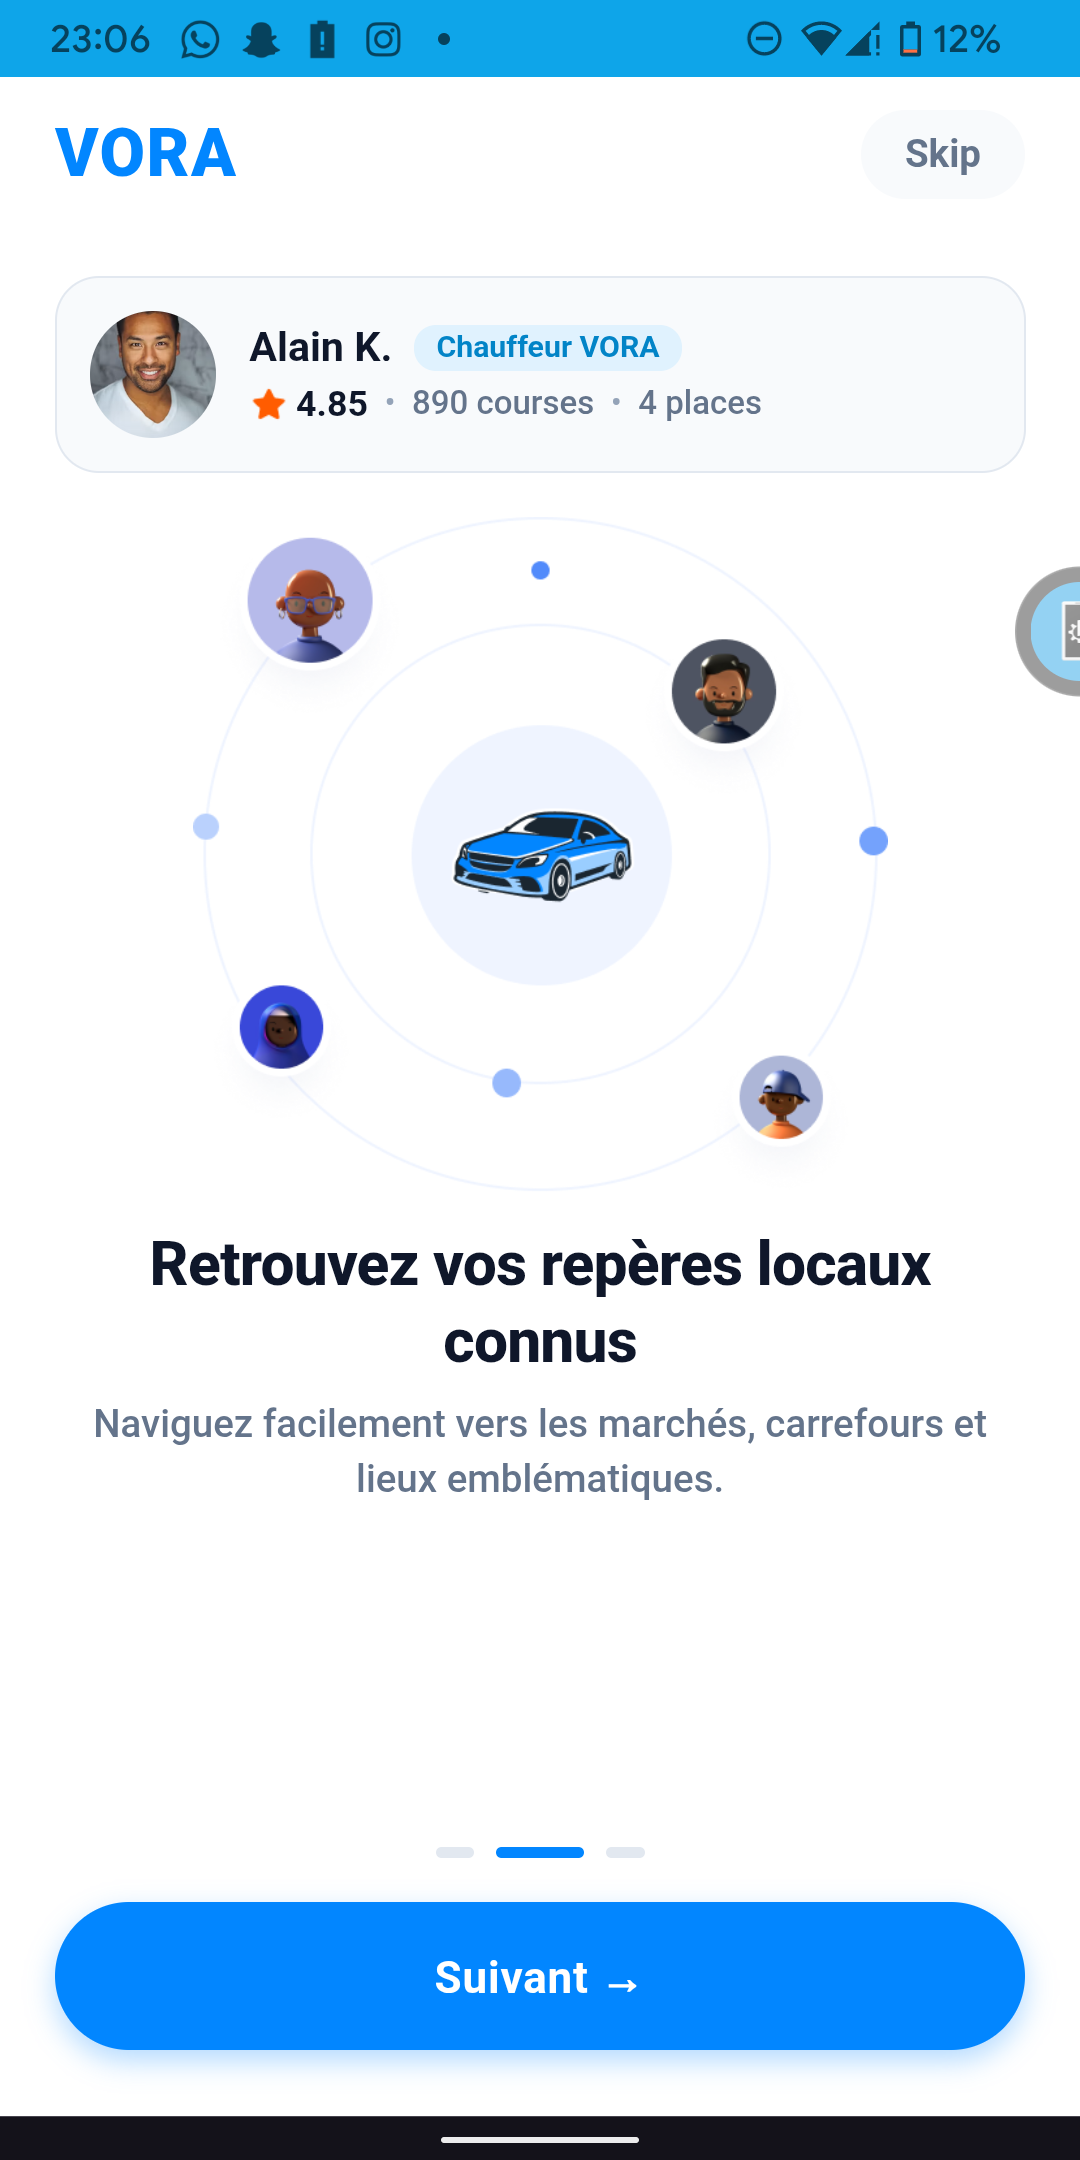
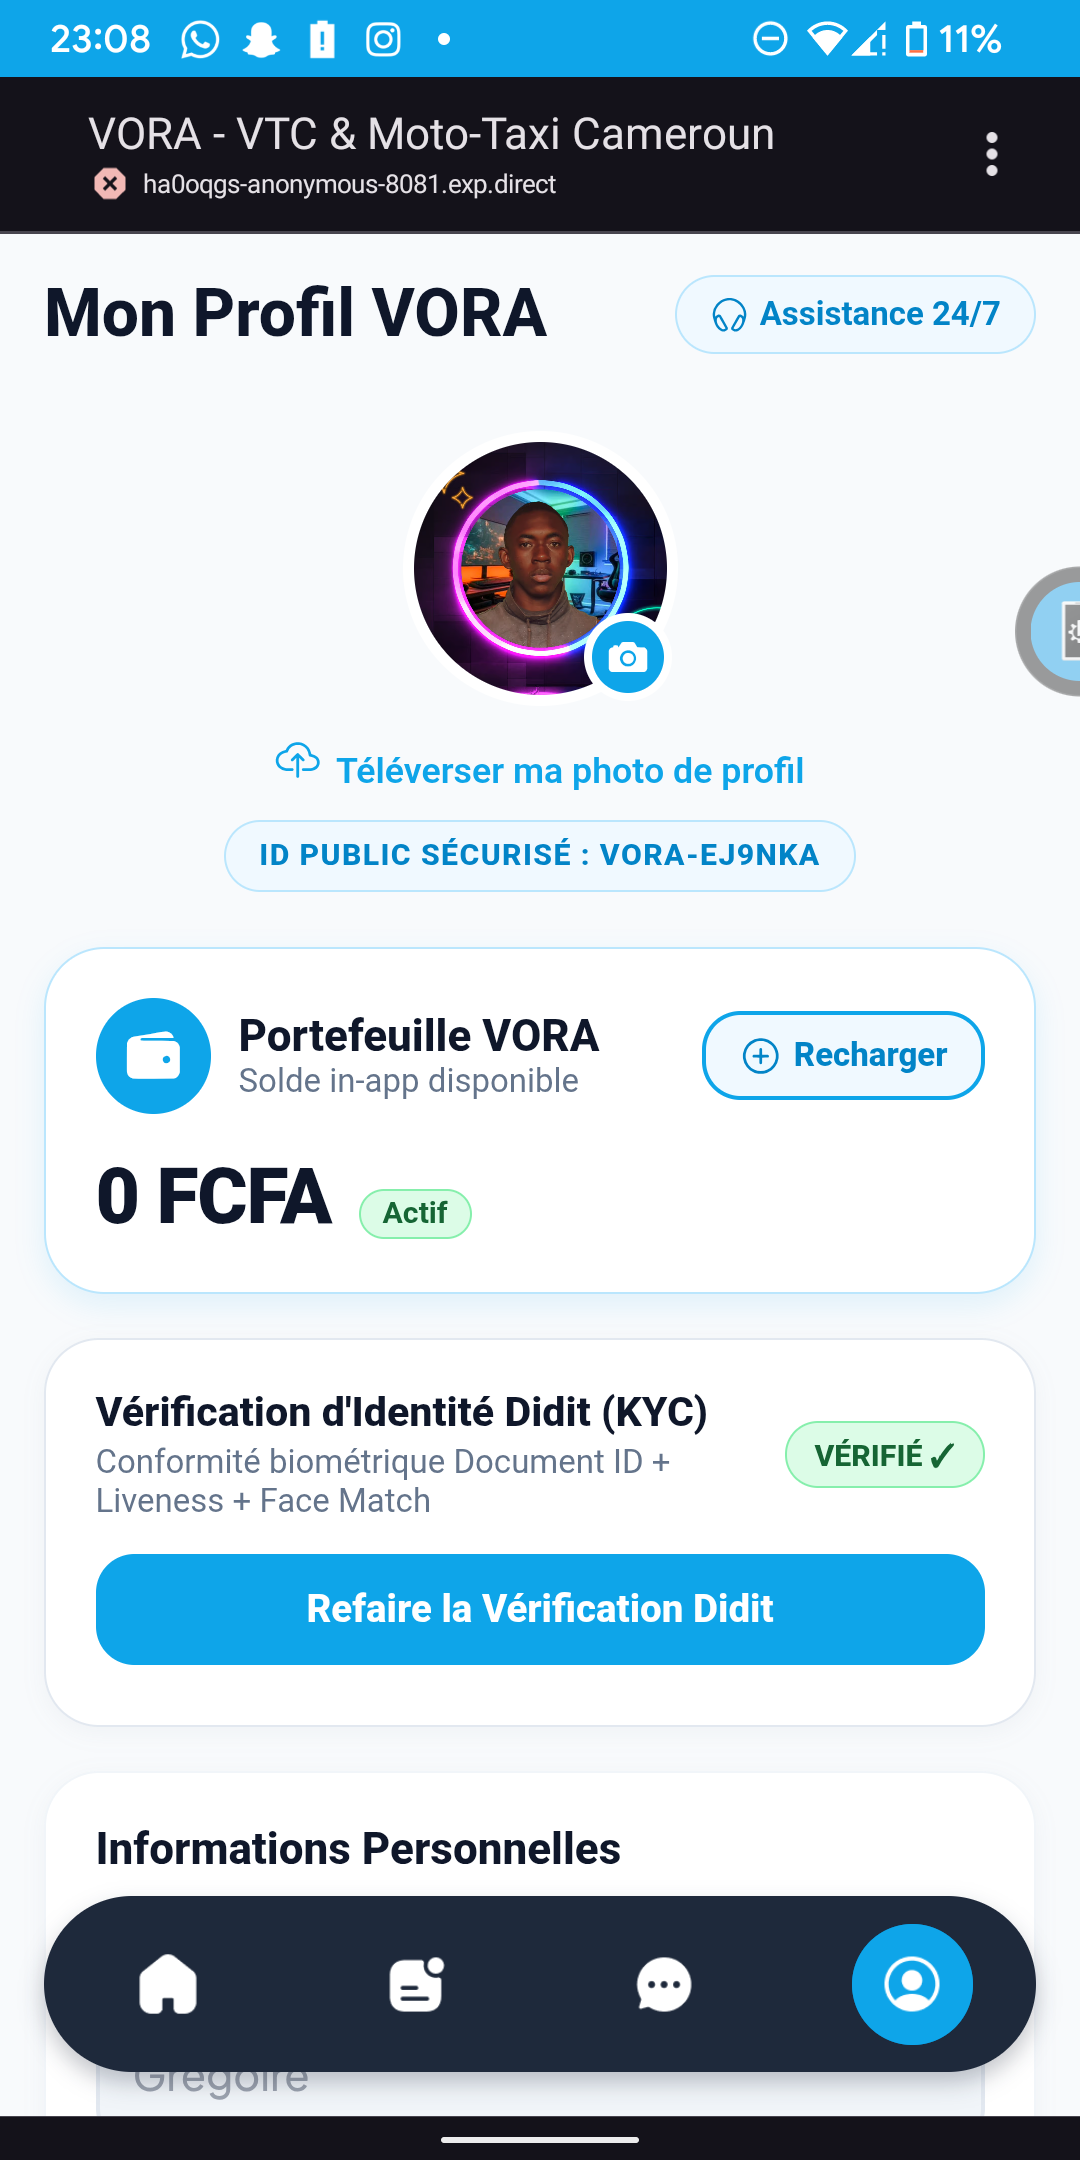
final push

diff --git a/backend/src/db/index.ts b/backend/src/db/index.ts
@@ -6,6 +6,15 @@ dotenv.config();
 export const pool = new Pool({
   connectionString: process.env.DATABASE_URL,
   ssl: { rejectUnauthorized: false },
+  // Recycler les connexions inactives pour éviter les coupures réseau Neon
+  idleTimeoutMillis: 30000,
+  connectionTimeoutMillis: 15000,
+  max: 10,
+});
+
+// Éviter le crash du process sur une erreur de connexion inattendue (idle client)
+pool.on('error', (err: Error) => {
+  console.warn('[DATABASE] Erreur de connexion idle:', err.message);
 });
 
 export const query = async (text: string, params?: any[]) => {
@@ -28,7 +37,11 @@ export async function withTransaction<T>(fn: (queryFn: typeof query) => Promise<
     await client.query('COMMIT');
     return result;
   } catch (err) {
-    await client.query('ROLLBACK');
+    try {
+      await client.query('ROLLBACK');
+    } catch {
+      // La connexion est peut-être déjà morte — ignorer l'échec du ROLLBACK
+    }
     throw err;
   } finally {
     client.release();
